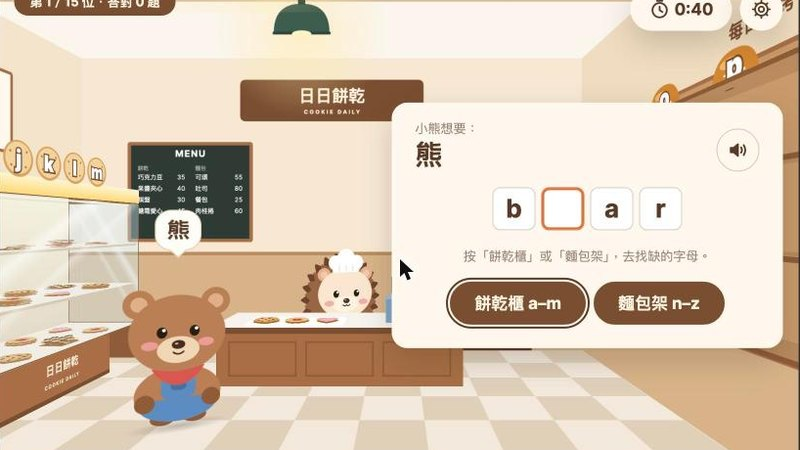
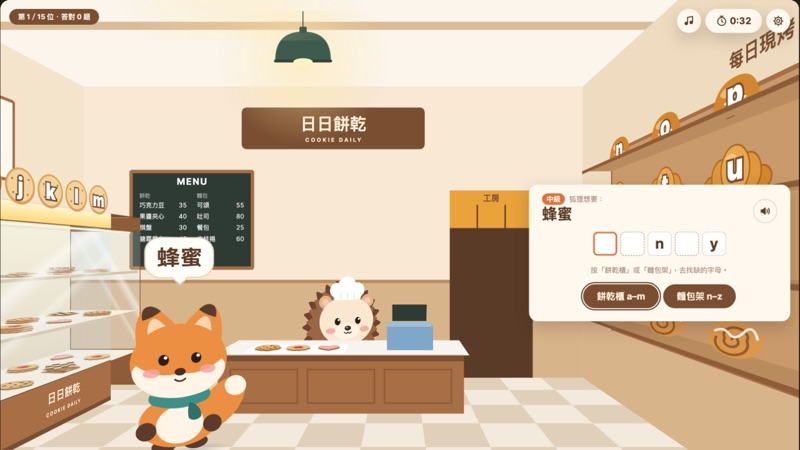
feat: 提高難度：多挖幾格、優先挖易錯字母、時間縮短、點錯扣 3 秒
受訪者覺得題目太簡單。
- 挖空：3–4 個字母挖 2 格、5–6 挖 3 格、7–8 挖 4 格、9 以上挖 5 格；優先挖母音、母音組合、
  重複字母、字尾的 e；中級以上第一個字母也可能挖掉
- 時間：每位 20 秒＋每格 8 秒；點錯扣 3 秒，時鐘閃紅一下
- 說明書的規則文字與第 1、2 頁截圖跟著更新

diff --git a/scripts/play.js b/scripts/play.js
@@ -8,11 +8,12 @@
   動畫照舊交給 CSS：走路是改擺放位置的 CSS 變數由 transition 補間，鏡頭是 data-camera，表情與紙袋是 data 屬性。
   🔊 用瀏覽器內建的語音合成（speechSynthesis），不支援的瀏覽器就不顯示按鈕。
 
-  規則（已確認）：
+  規則（2026-11-21 受訪者覺得太簡單，調難；數字都是 [需確認]）：
     - 每局 15 位顧客：前 5 位初級、中間 5 位中級、最後 5 位高級，各從題庫隨機抽（scripts/words.js、Supabase）
-    - 挖空：4 個字母以內挖 1 格、5–6 個挖 2 格、7 個以上挖 3 格；第一個字母不挖，留著當提示
-    - 時間：每位顧客 30 秒＋每格 10 秒，小栗走路也算在時間裡；剩三成時時鐘晃動、顧客變著急
-    - 點錯字母不扣時間，商品搖一下、顧客皺一下眉
+    - 挖空：3–4 個字母挖 2 格、5–6 挖 3 格、7–8 挖 4 格、9 以上挖 5 格；優先挖母音、母音組合、重複字母、字尾的 e；
+      初級的第一個字母一定給，中級以上第一個字母也可能挖掉
+    - 時間：每位顧客 20 秒＋每格 8 秒，小栗走路也算在時間裡；剩三成時時鐘晃動、顧客變著急
+    - 點錯字母扣 3 秒：商品搖一下、顧客皺一下眉、時鐘閃一下
     - 星星：答對 13 題以上三顆、9 題以上兩顆、1 題以上一顆
   電腦也能直接按鍵盤字母（等於點那個商品）；Esc 打開或關上設定選單。
 
@@ -54,10 +55,12 @@
   // 一局 15 位顧客：前 5 位初級、中間 5 位中級、最後 5 位高級（題庫見 scripts/words.js）
   const PER_LEVEL = 5;
   const ROUND = PER_LEVEL * 3;
-  const TIME_BASE = 30;
-  const TIME_PER_BLANK = 10;
+  const TIME_BASE = 20; // 每題 20 秒＋每個空格 8 秒 [需確認]
+  const TIME_PER_BLANK = 8;
+  const WRONG_PENALTY = 3; // 點錯扣 3 秒 [需確認]
   const HURRY = 0.3;
-  const blanksFor = (length) => (length <= 4 ? 1 : length <= 6 ? 2 : 3);
+  // 3–4 個字母挖 2 格、5–6 挖 3 格、7–8 挖 4 格、9 以上挖 5 格，至少留一個字母
+  const blanksFor = (length) => Math.min(length - 1, length <= 4 ? 2 : length <= 6 ? 3 : length <= 8 ? 4 : 5);
   const starsFor = (correct) => (correct >= 13 ? 3 : correct >= 9 ? 2 : correct >= 1 ? 1 : 0);
 
   // 顧客從麵包架旁淡入、走到櫃台左前方，結帳完走回去淡出（門在鏡頭背後，從那裡進來會貼著鏡頭冒出來）
@@ -221,10 +224,30 @@
   const ESCAPES = { '&': '&amp;', '<': '&lt;', '>': '&gt;', '"': '&quot;', "'": '&#39;' };
   const escapeHTML = (text) => String(text).replace(/[&<>"']/g, (c) => ESCAPES[c]);
 
+  // 挖哪幾格：優先挖容易拼錯的地方——母音、母音組合（ea、ie、ou）、重複字母（ll、pp）、字尾不發音的 e；
+  // 每格再加一點隨機，同一個字每次挖的地方不一樣。初級第一個字母一定給，中級以上第一個字母也可能挖掉。
+  const VOWELS = 'aeiou';
+  const tricky = (letters, i) => {
+    const [prev, letter, next] = [letters[i - 1], letters[i], letters[i + 1]];
+    const vowel = VOWELS.includes(letter);
+    let score = Math.random();
+    if (vowel) score += 1;
+    if (vowel && (VOWELS.includes(prev) || VOWELS.includes(next))) score += 1;
+    if (letter === prev || letter === next) score += 1;
+    if (letter === 'e' && i === letters.length - 1) score += 0.5;
+    return score;
+  };
+
   function makeQuestion(word) {
     const letters = [...word.en];
-    const blanks = shuffle(letters.map((_, i) => i).slice(1))
+    const from = word.level === 1 ? 1 : 0;
+    const blanks = letters
+      .map((_, i) => i)
+      .slice(from)
+      .map((i) => ({ i, score: tricky(letters, i) }))
+      .sort((a, b) => b.score - a.score)
       .slice(0, blanksFor(letters.length))
+      .map(({ i }) => i)
       .sort((a, b) => a - b);
     return { ...word, letters, blanks, cursor: 0 };
   }
@@ -313,11 +336,15 @@
           if (!item) return;
           const answer = q.letters[q.blanks[q.cursor]];
           if (letter !== answer) {
-            // 點錯：商品搖一下、顧客皺眉，不扣時間
+            // 點錯：商品搖一下、顧客皺眉、時鐘閃一下扣 3 秒
             item.el.classList.remove('is-wrong');
             void item.el.offsetWidth;
             item.el.classList.add('is-wrong');
-            quizMessage.textContent = `這是 ${letter}，不是缺的那個字母喔。`;
+            elapsed += WRONG_PENALTY * 1000;
+            clock.classList.remove('is-penalty');
+            void clock.offsetWidth;
+            clock.classList.add('is-penalty');
+            quizMessage.textContent = `這是 ${letter}，不是缺的那個字母喔。扣 ${WRONG_PENALTY} 秒。`;
             customer.dataset.expression = 'flustered';
             clearTimeout(frownTimer);
             frownTimer = setTimeout(() => {
@@ -339,6 +366,11 @@
       };
     });
   }
+
+  // 扣時間的閃一下結束就拿掉，不然會蓋住「時間快到」的晃動
+  clock.addEventListener('animationend', (event) => {
+    if (event.animationName === 'clock-penalty') clock.classList.remove('is-penalty');
+  });
 
   // 點商品（滑鼠、手指，或鍵盤在商品上按 Enter）
   shop.addEventListener('click', (event) => {

diff --git a/index.html b/index.html
@@ -131,9 +131,9 @@
                 <p class="book__text">顧客走到櫃台前，用中文說他想要的東西。把英文單字缺的字母補齊，他就會拿著紙袋開心回家。一局有 15 位顧客，越後面越難：前 5 位是初級、中間 5 位中級、最後 5 位高級。</p>
               </section>
               <section class="book__page" data-book-page hidden>
-                <img class="book__shot" src="images/howto/howto-2.jpg" width="800" height="450" alt="題目卡：中文提示、挖空的單字，橘色框是現在要補的字母" />
+                <img class="book__shot" src="images/howto/howto-2.jpg" width="800" height="450" alt="題目卡：左上角是難度，下面是中文提示和挖空的單字，橘色框是現在要補的字母" />
                 <h3 class="book__heading">2　看懂題目</h3>
-                <p class="book__text">題目卡上有中文提示和挖空的英文單字，橘色框是現在要補的字母。第一個字母一定會給你；按 🔊 可以聽單字怎麼唸。</p>
+                <p class="book__text">題目卡上有難度、中文提示和挖空的英文單字，橘色框是現在要補的字母。初級的第一個字母一定會給你，中級以上連第一個字母都可能要自己補；按 🔊 可以聽單字怎麼唸。</p>
               </section>
               <section class="book__page" data-book-page hidden>
                 <img class="book__shot" src="images/howto/howto-3.jpg" width="800" height="450" alt="展示櫃頂上一排寫著字母的餅乾" />
@@ -143,7 +143,7 @@
               <section class="book__page" data-book-page hidden>
                 <img class="book__shot" src="images/howto/howto-4.jpg" width="800" height="450" alt="小栗走到展示櫃前，頭上帶著拿到的字母" />
                 <h3 class="book__heading">4　點商品，小栗去拿</h3>
-                <p class="book__text">按「餅乾櫃」或「麵包架」轉過去，點缺的那個字母。點對了，小栗會走過去拿回來補上；點錯了商品會搖一搖，再找一次就好。</p>
+                <p class="book__text">按「餅乾櫃」或「麵包架」轉過去，點缺的那個字母。點對了，小栗會走過去拿回來補上；點錯了商品會搖一搖，還會扣 3 秒，看清楚再點。</p>
               </section>
               <section class="book__page" data-book-page hidden>
                 <img class="book__shot" src="images/howto/howto-5.jpg" width="800" height="450" alt="畫面右上角的倒數時鐘與設定按鈕" />

diff --git a/styles/play.css b/styles/play.css
@@ -201,6 +201,19 @@
   animation: clock-shake var(--clock-shake-duration) ease-in-out infinite;
 }
 
+/* 點錯扣時間：時鐘閃紅一下 */
+.hud__clock.is-penalty {
+  animation: clock-penalty var(--play-shake-duration) ease-out;
+}
+
+@keyframes clock-penalty {
+  from {
+    background: var(--quiz-wrong);
+    color: var(--card-paper);
+    scale: var(--clock-penalty-scale);
+  }
+}
+
 @keyframes clock-shake {
   0%,
   100% {

diff --git a/styles/tokens.css b/styles/tokens.css
@@ -424,6 +424,7 @@
   /* 右上角的時鐘與設定、暫停選單、開始前的倒數 */
   --clock-width: 104px;
   --clock-shake-duration: 500ms;
+  --clock-penalty-scale: 1.15; /* 點錯扣時間時，時鐘放大閃一下 */
   --pause-backdrop: rgba(42, 30, 22, 0.55);
   --pause-width: 280px;
   --countdown-size: 120px;

diff --git a/README.md b/README.md
@@ -24,12 +24,15 @@
 2. 導覽：字母餅乾 a–m（左邊展示櫃頂上）→ 字母麵包 n–z（右邊麵包架）→ 櫃台。可以略過。
 3. 遊戲說明書：縫線邊框的小書，可以前後翻，每頁一張遊戲截圖（`images/howto/`）；最後一頁「開始遊戲」→ 3、2、1。
 4. 營業：15 位顧客輪流到櫃台前，每位出一個挖空的英文單字（左上角是難度、中文提示、🔊 可以聽發音）；前 5 位初級、中間 5 位中級、最後 5 位高級。
-   按「餅乾櫃／麵包架」轉過去點缺的字母，小栗會走過去拿回來補上；點錯了商品會搖一搖。電腦也能直接按鍵盤字母。
+   按「餅乾櫃／麵包架」轉過去點缺的字母，小栗會走過去拿回來補上；點錯了商品會搖一搖、扣 3 秒。電腦也能直接按鍵盤字母。
 5. 右上角：音樂開關、倒數時鐘（剩三成時變紅晃動）、齒輪設定（暫停：繼續、重新開始、遊戲說明、回到主畫面；Esc 也能開）。
 6. 營業結束：星星、答對幾題、15 個單字複習（每個都能聽發音）。
 
-規則：每位顧客 30 秒＋每個空格 10 秒；4 個字母以內挖 1 格、5–6 個挖 2 格、7 個以上挖 3 格，第一個字母一定給；
-答對 13 題以上三顆星、9 題以上兩顆、1 題以上一顆。
+規則（2026-11-21 受訪者覺得太簡單，調難；數字都是 [需確認]）：
+- 時間：每位顧客 20 秒＋每個空格 8 秒；點錯扣 3 秒。
+- 挖空：3–4 個字母挖 2 格、5–6 挖 3 格、7–8 挖 4 格、9 以上挖 5 格；優先挖母音、母音組合（ea、ie、ou）、重複字母（ll、pp）、字尾的 e。
+  初級的第一個字母一定給，中級以上第一個字母也可能挖掉。
+- 星星：答對 13 題以上三顆、9 題以上兩顆、1 題以上一顆。
 
 ## 檔案
 
